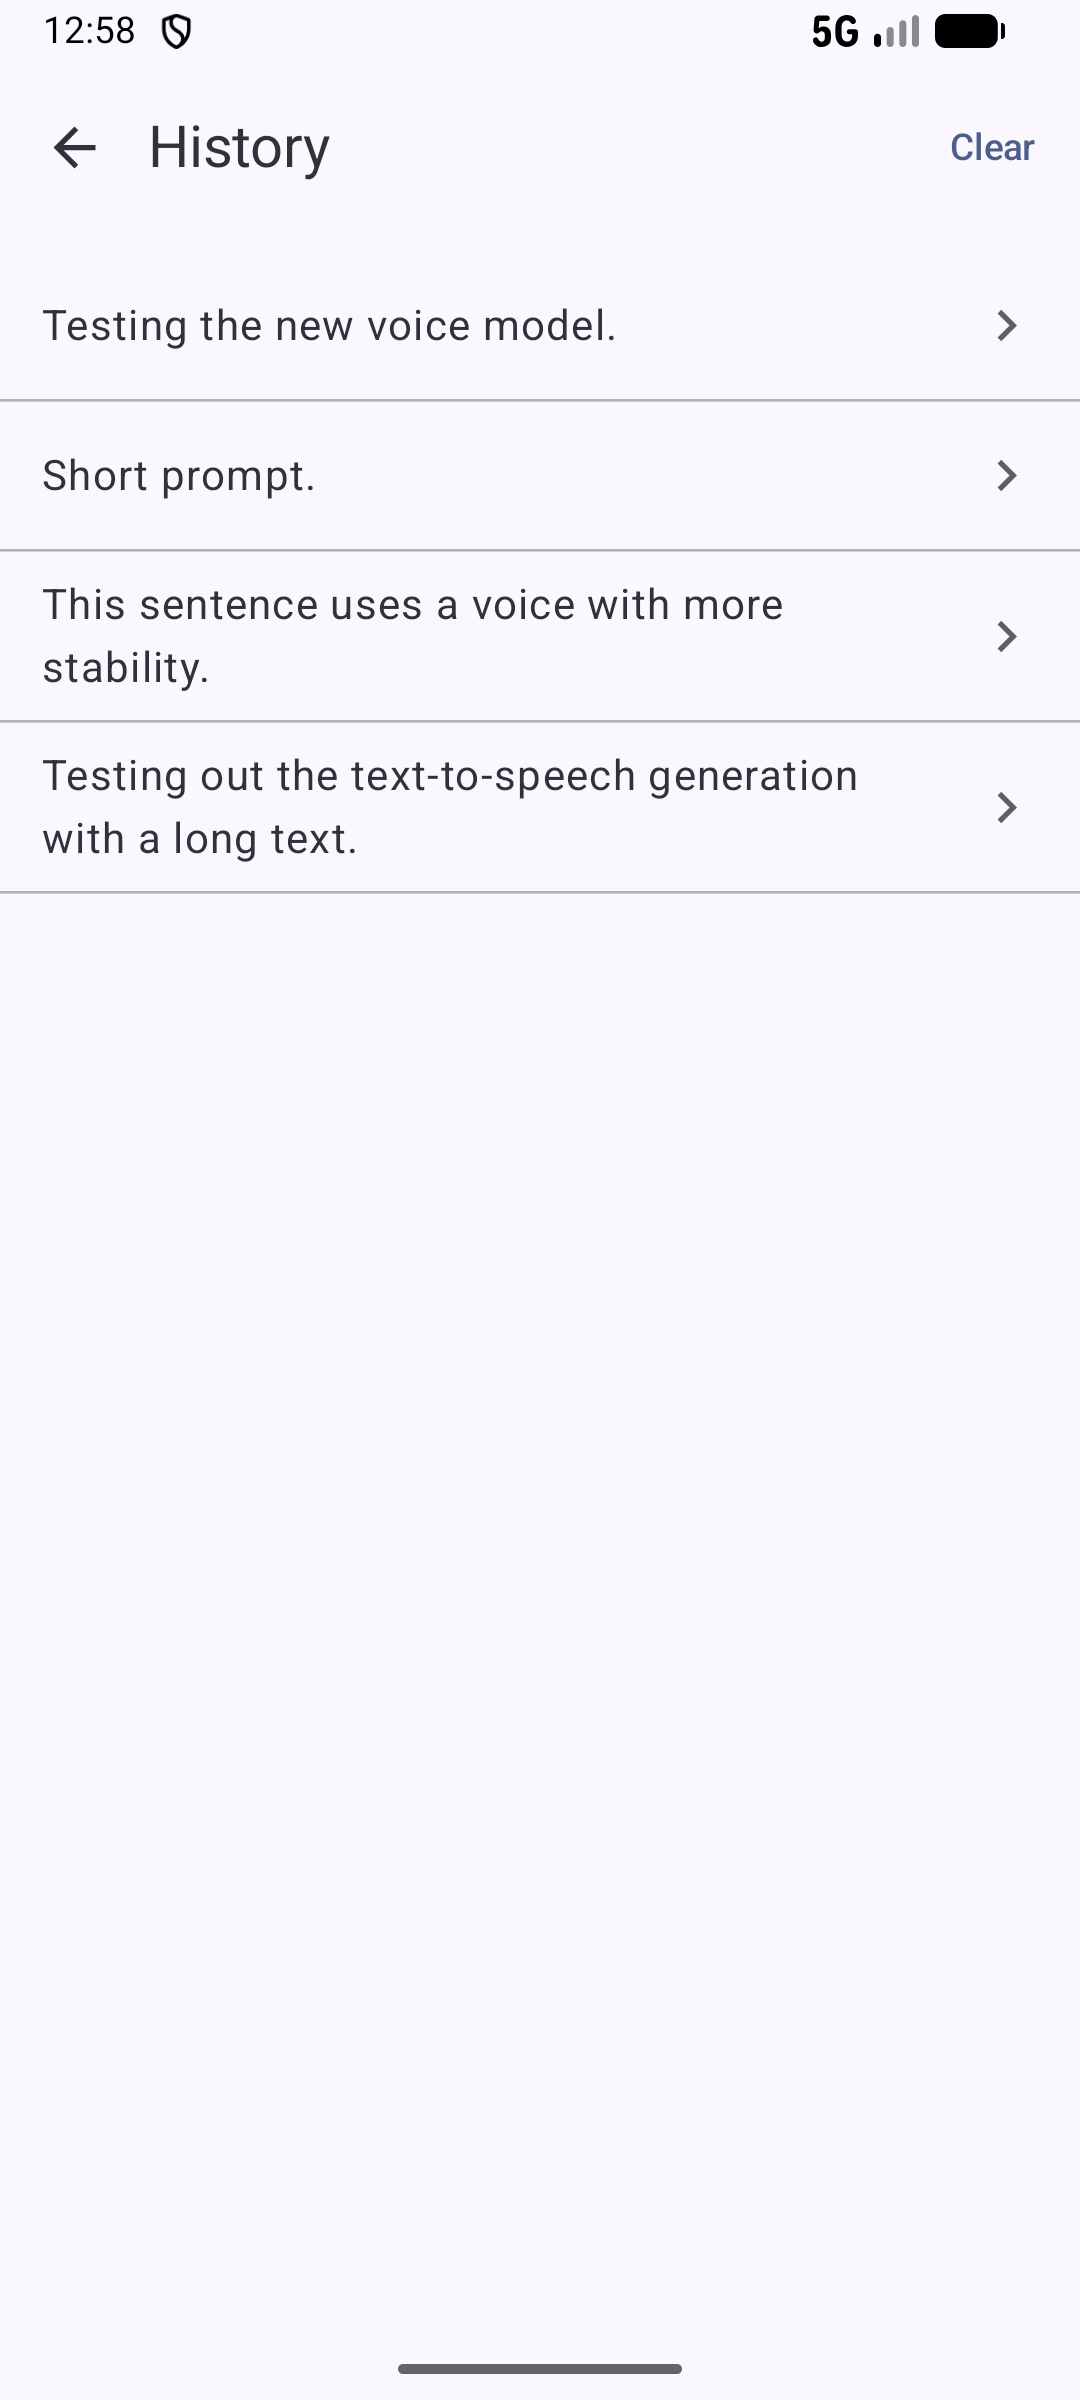
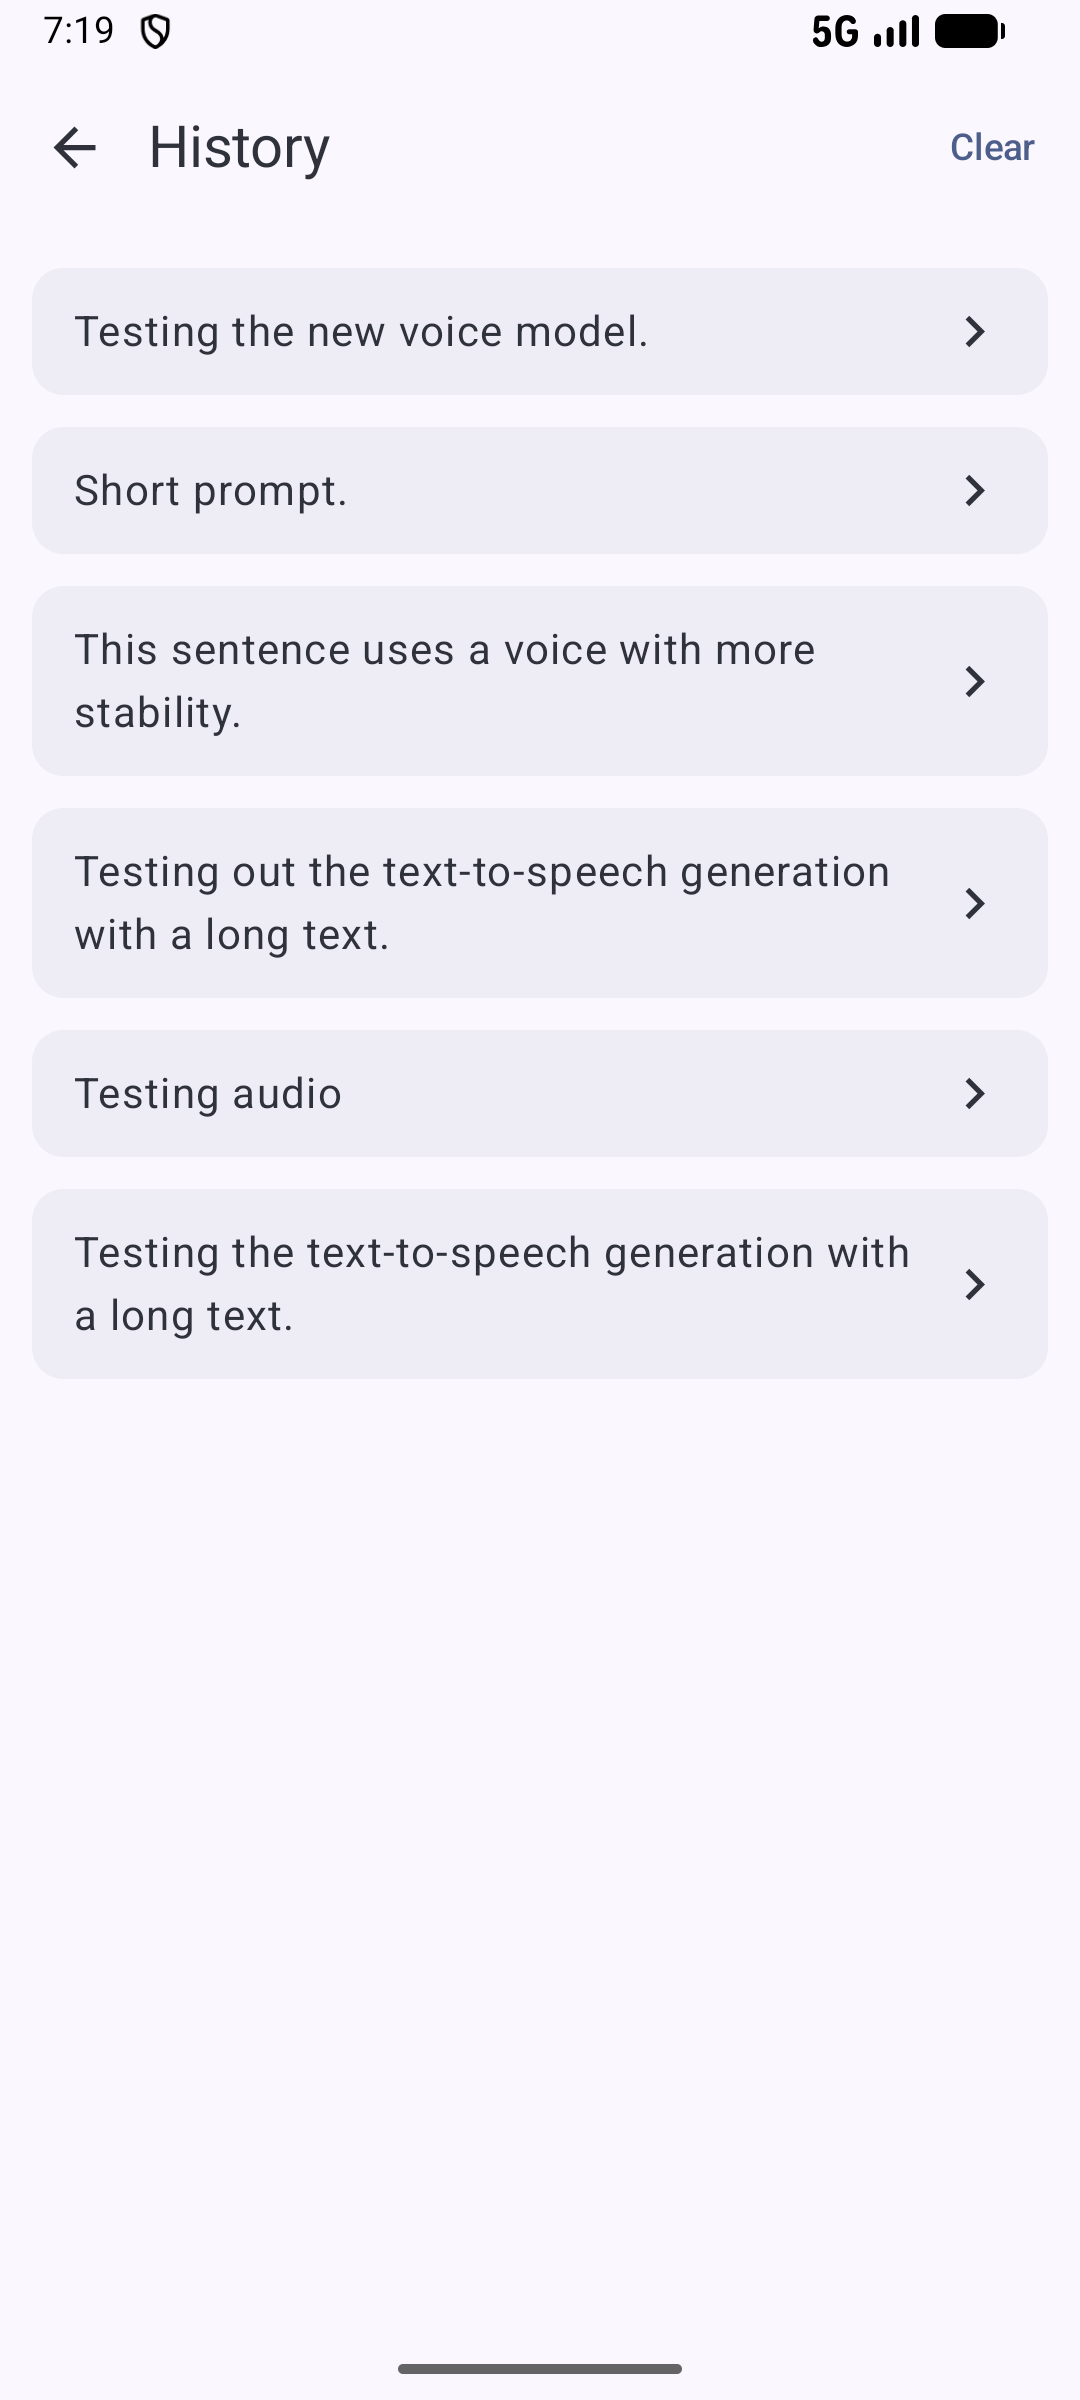
feat: Update history row UI

diff --git a/app/src/main/java/com/haaz/history/HistoryPage.kt b/app/src/main/java/com/haaz/history/HistoryPage.kt
@@ -3,22 +3,22 @@ package com.haaz.history
 import androidx.compose.foundation.clickable
 import androidx.compose.foundation.layout.Box
 import androidx.compose.foundation.layout.PaddingValues
+import androidx.compose.foundation.layout.Row
 import androidx.compose.foundation.layout.fillMaxSize
 import androidx.compose.foundation.layout.fillMaxWidth
 import androidx.compose.foundation.layout.padding
+import androidx.compose.foundation.shape.RoundedCornerShape
 import androidx.compose.foundation.lazy.LazyColumn
 import androidx.compose.foundation.lazy.items
 import androidx.compose.material.icons.Icons
 import androidx.compose.material.icons.automirrored.filled.ArrowBack
 import androidx.compose.material.icons.filled.ChevronRight
-import androidx.compose.material3.Divider
 import androidx.compose.material3.ExperimentalMaterial3Api
-import androidx.compose.material3.HorizontalDivider
 import androidx.compose.material3.Icon
 import androidx.compose.material3.IconButton
-import androidx.compose.material3.ListItem
 import androidx.compose.material3.MaterialTheme
 import androidx.compose.material3.Scaffold
+import androidx.compose.material3.Surface
 import androidx.compose.material3.Text
 import androidx.compose.material3.TextButton
 import androidx.compose.material3.TopAppBar
@@ -99,7 +99,6 @@ private fun HistoryPageUI(
                         text = entry,
                         onClick = { onQuerySelected(entry) }
                     )
-                    HorizontalDivider()
                 }
             }
         }
@@ -112,22 +111,32 @@ private fun HistoryRow(
     onClick: () -> Unit,
     modifier: Modifier = Modifier
 ) {
-    ListItem(
+    Surface(
         modifier = modifier
             .fillMaxWidth()
+            .padding(horizontal = 12.dp, vertical = 6.dp)
             .clickable(onClick = onClick),
-        headlineContent = {
+        shape = RoundedCornerShape(12.dp),
+        tonalElevation = 2.dp
+    ) {
+        Row(
+            modifier = Modifier
+                .fillMaxWidth()
+                .padding(horizontal = 16.dp, vertical = 12.dp),
+            verticalAlignment = Alignment.CenterVertically
+        ) {
             Text(
                 text = text,
                 maxLines = 2,
-                overflow = TextOverflow.Ellipsis
+                overflow = TextOverflow.Ellipsis,
+                modifier = Modifier
+                    .weight(1f)
+                    .padding(end = 4.dp)
             )
-        },
-        trailingContent = {
             Icon(
                 imageVector = Icons.Filled.ChevronRight,
                 contentDescription = null
             )
         }
-    )
+    }
 }
